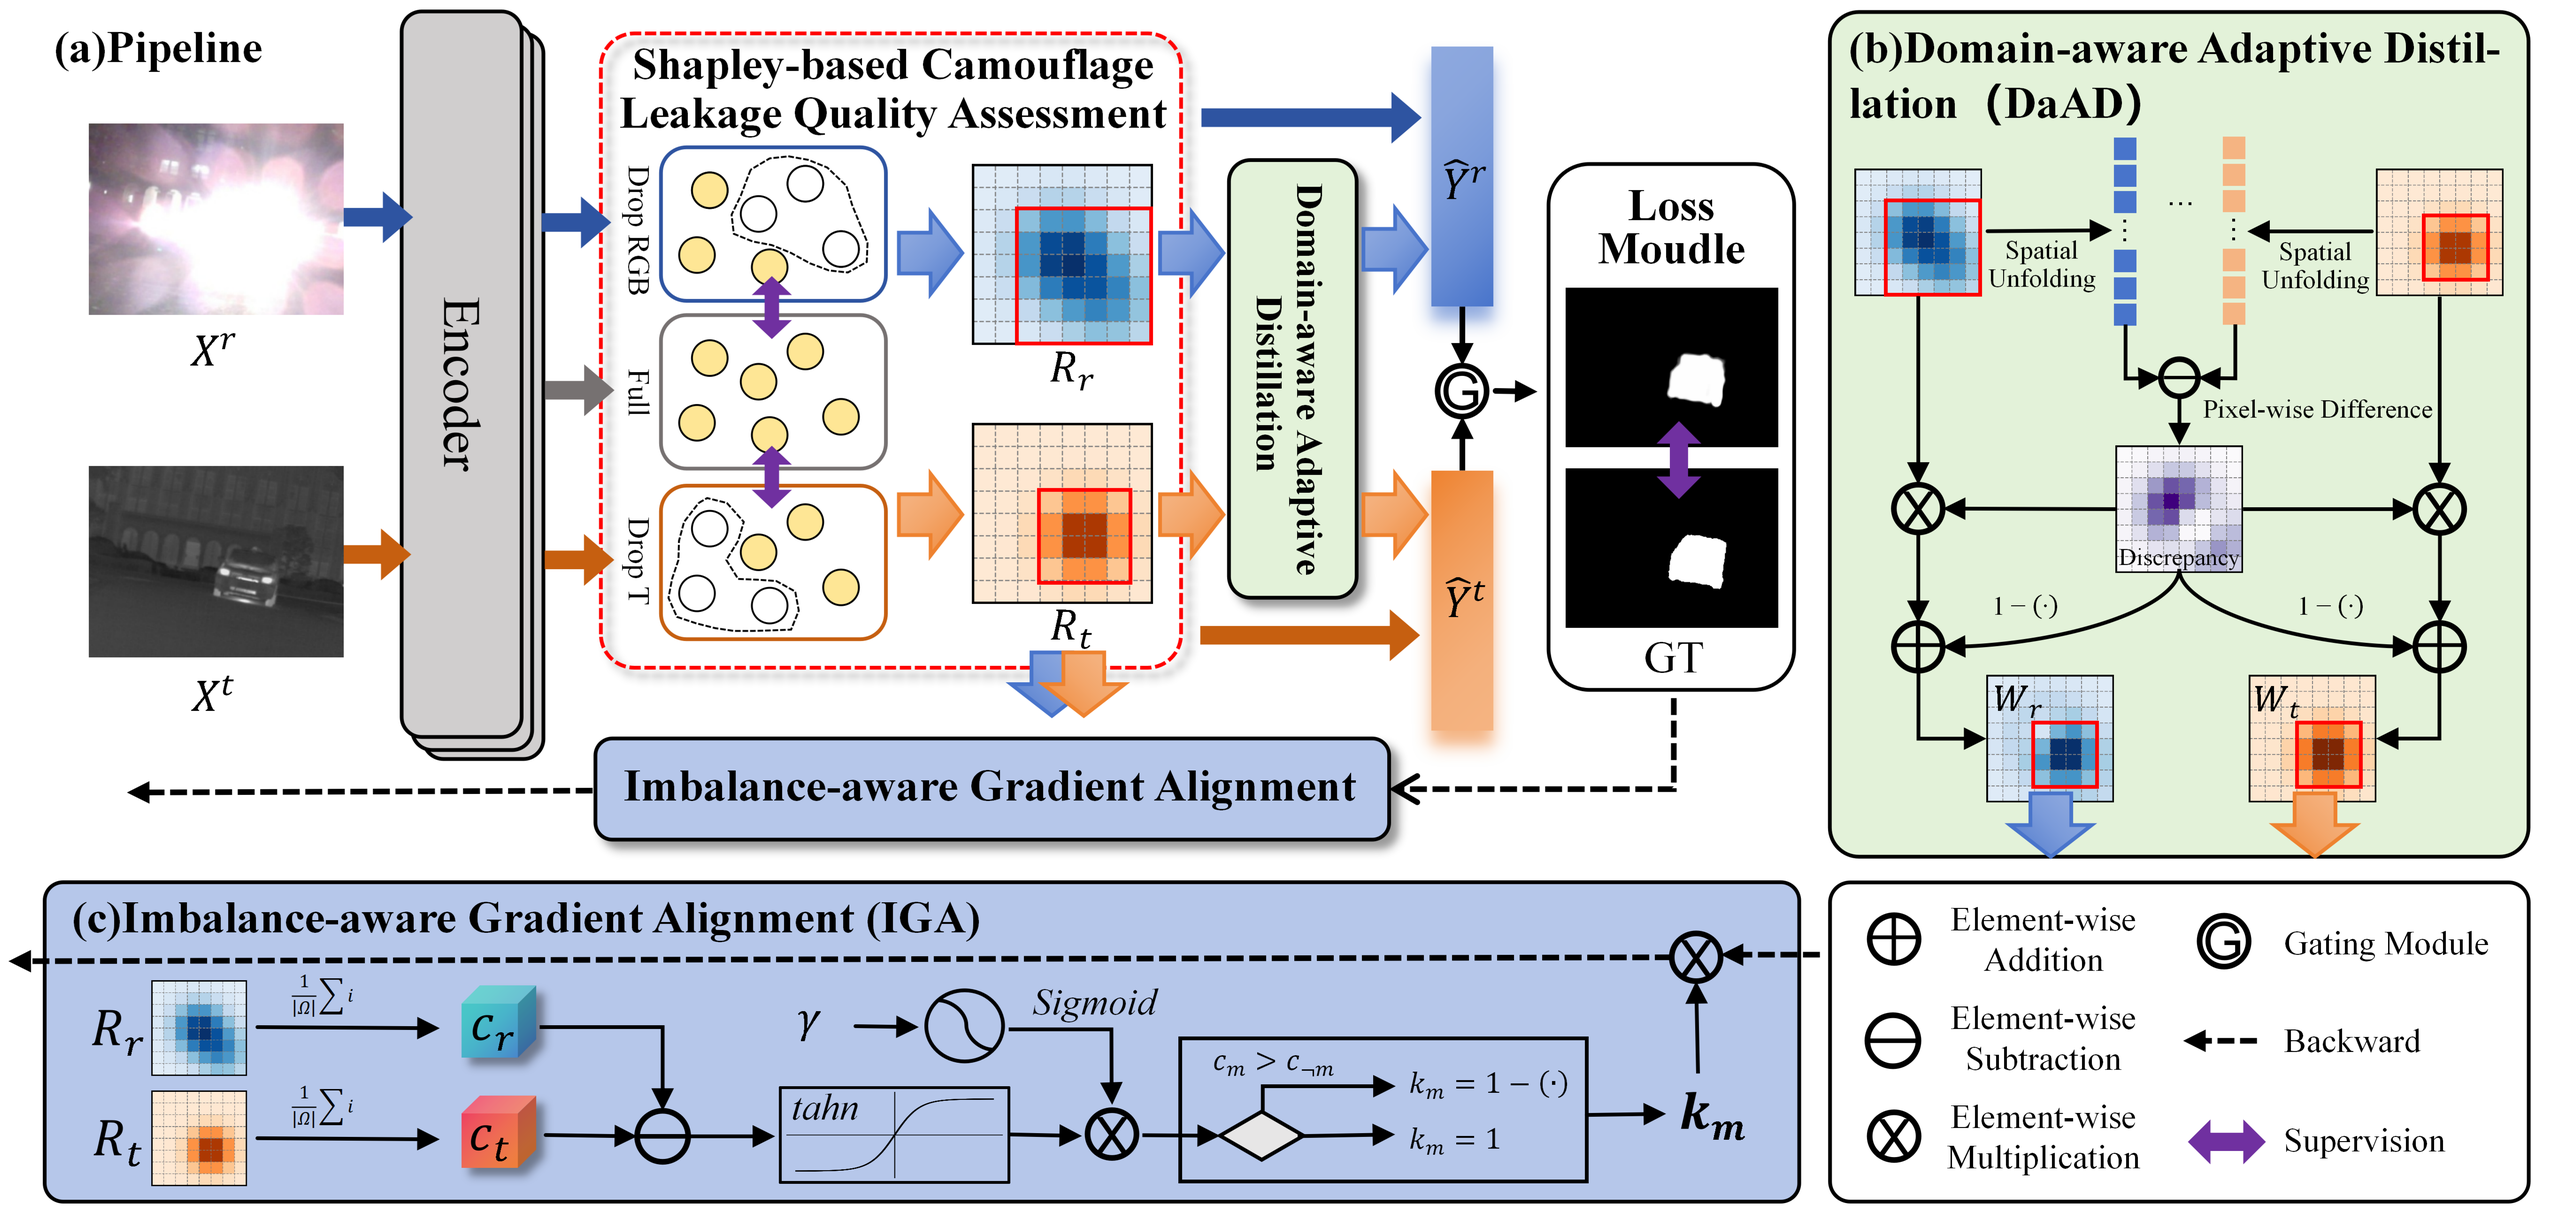
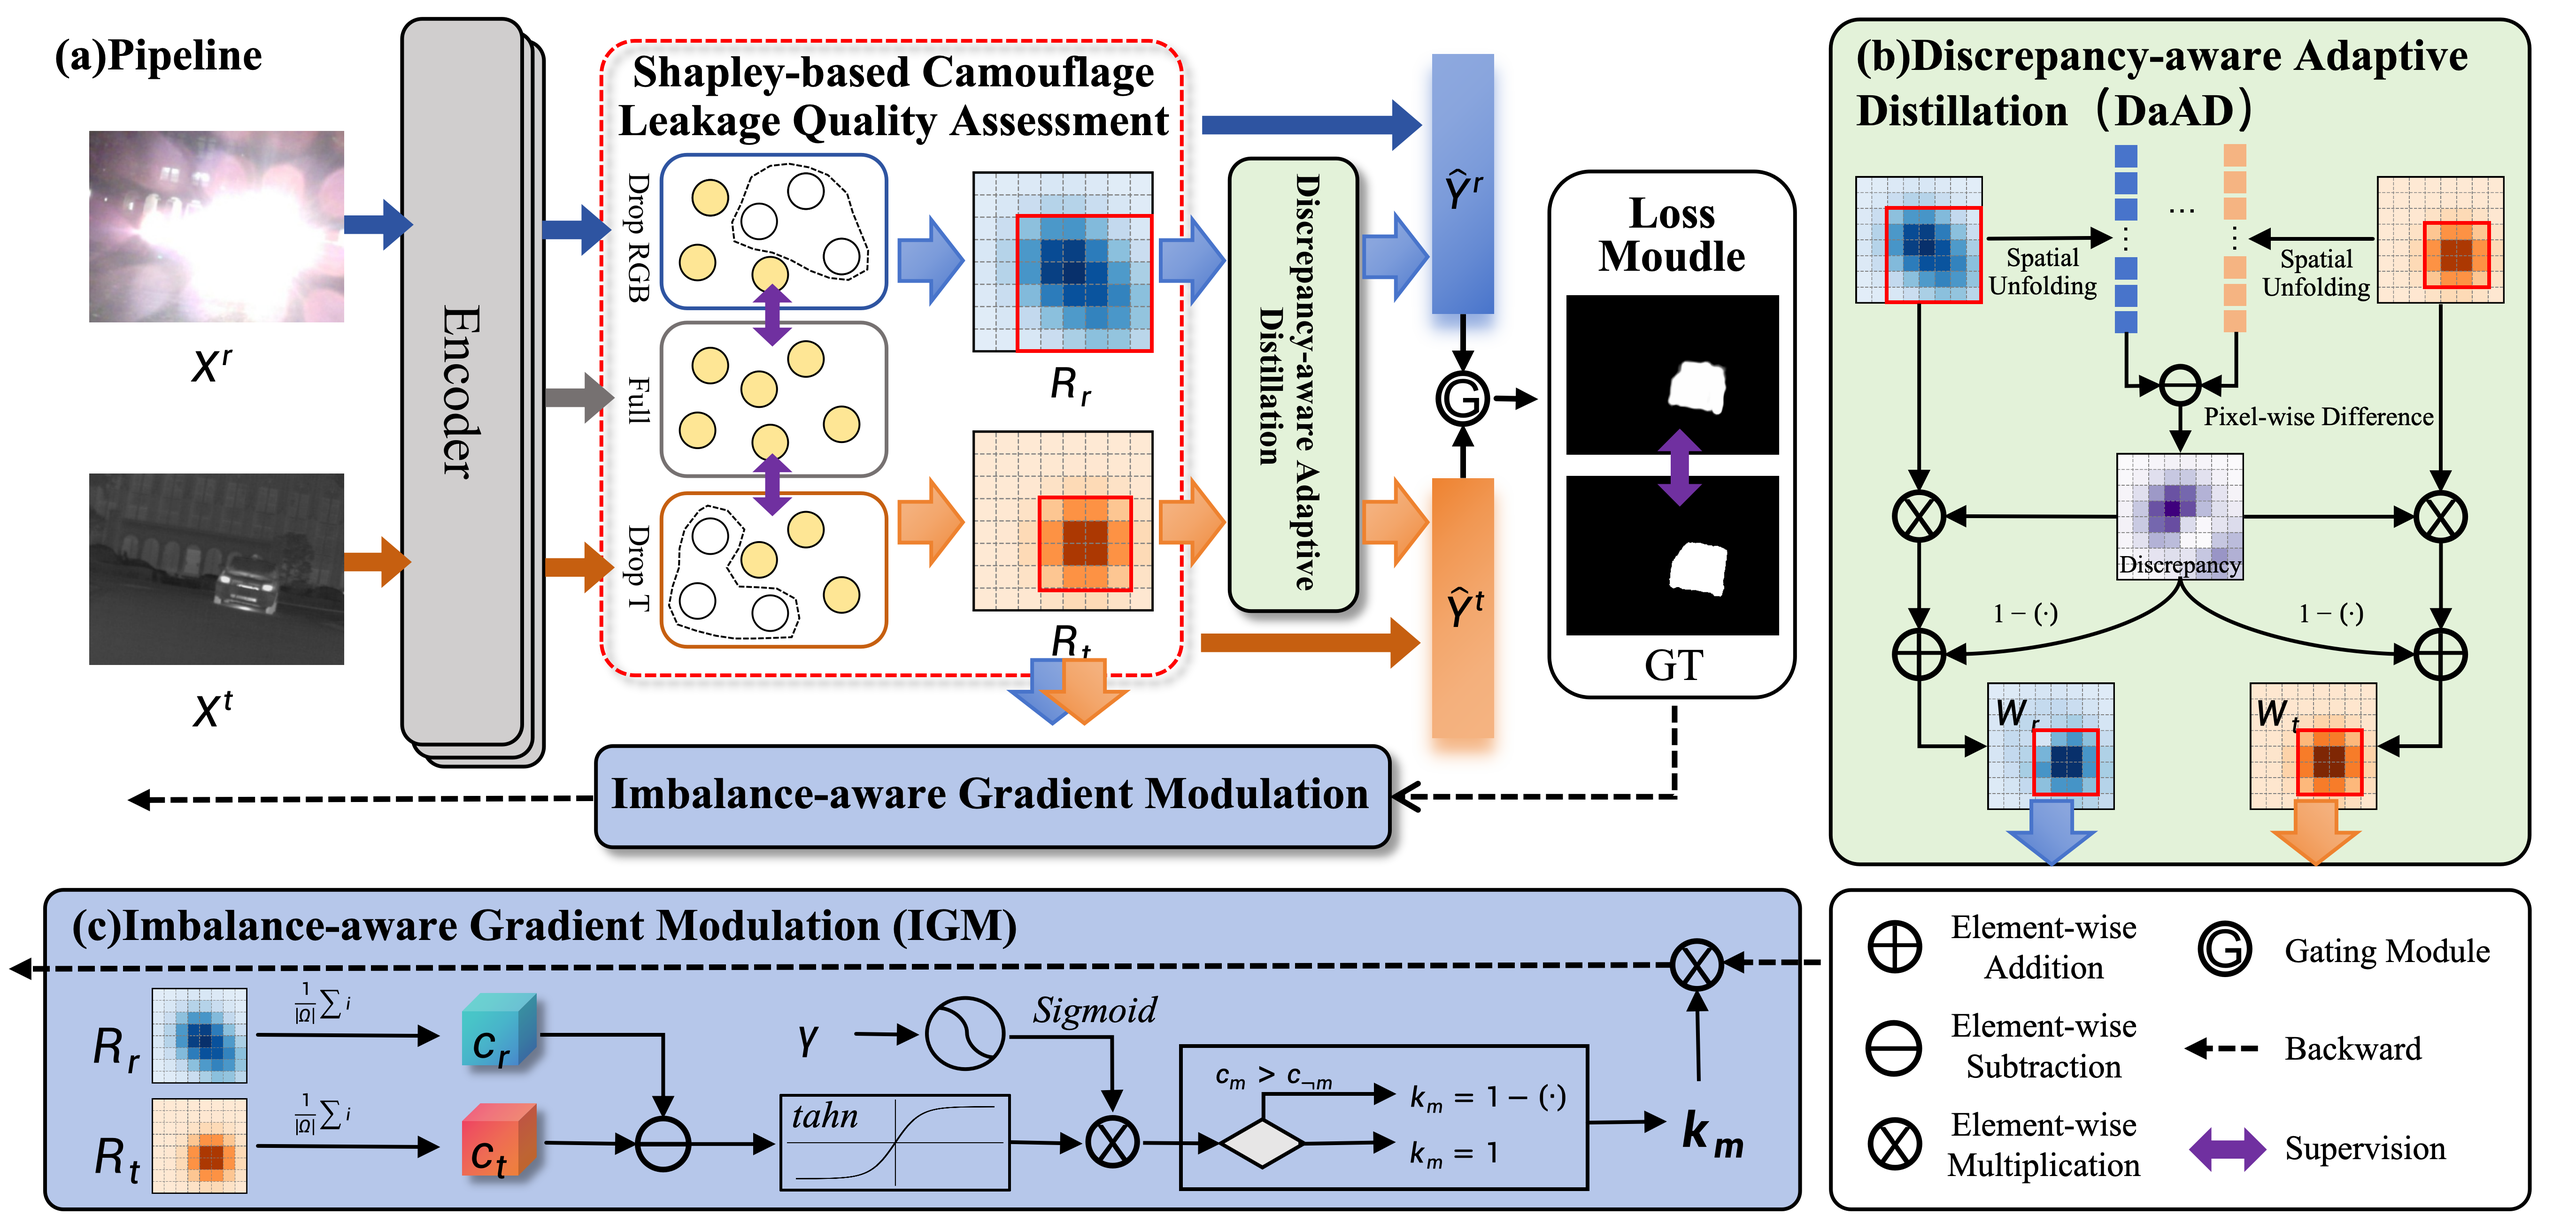
Rename IGA to IGM

diff --git a/train.py b/train.py
@@ -135,25 +135,25 @@ def train(train_loader, model, optimizer, epoch, save_path, opt):
 
             loss.backward()
 
-            suppression_status = 'Balanced' if opt.use_iga else None
-            if opt.use_iga and epoch > opt.iga_warmup_epochs:
+            suppression_status = 'Balanced' if opt.use_igm else None
+            if opt.use_igm and epoch > opt.igm_warmup_epochs:
                 with torch.no_grad():
                     delta_c = (c_rgb_inst - c_t_inst)
                     delta_c_val = float(delta_c)
-                logging.info(f"[IGA] delta_c (c_rgb_inst - c_t_inst) = {delta_c_val:+.6f}")
+                logging.info(f"[IGM] delta_c (c_rgb_inst - c_t_inst) = {delta_c_val:+.6f}")
                 with torch.no_grad():
                     conf_mean = (w_full[:, 0] - w_full[:, 1]).abs().mean().detach()
-                    conf_gate = torch.sigmoid((conf_mean - opt.iga_conf_deadband) * opt.iga_conf_gain)
+                    conf_gate = torch.sigmoid((conf_mean - opt.igm_conf_deadband) * opt.igm_conf_gain)
                     imb = abs(c_rgb_inst - c_t_inst)
-                    imb_gate = math.tanh(imb / (opt.iga_imb_scale + 1e-6))
-                    intensity = opt.iga_alpha * float(conf_gate) * float(imb_gate)
+                    imb_gate = math.tanh(imb / (opt.igm_imb_scale + 1e-6))
+                    intensity = opt.igm_alpha * float(conf_gate) * float(imb_gate)
 
                     coeff_rgb_val = 1.0
                     coeff_t_val = 1.0
-                    if (c_rgb_inst - c_t_inst) > opt.iga_deadband:
-                        coeff_rgb_val = max(opt.iga_coeff_min, 1.0 - intensity)
-                    elif (c_t_inst - c_rgb_inst) > opt.iga_deadband:
-                        coeff_t_val = max(opt.iga_coeff_min, 1.0 - intensity)
+                    if (c_rgb_inst - c_t_inst) > opt.igm_deadband:
+                        coeff_rgb_val = max(opt.igm_coeff_min, 1.0 - intensity)
+                    elif (c_t_inst - c_rgb_inst) > opt.igm_deadband:
+                        coeff_t_val = max(opt.igm_coeff_min, 1.0 - intensity)
 
                     coeff_rgb = coeff_rgb_val
                     coeff_t = coeff_t_val
@@ -194,7 +194,7 @@ def train(train_loader, model, optimizer, epoch, save_path, opt):
                 post_t_mean   = float(torch.stack(rem11_t_post_vals).mean().cpu().item())   if rem11_t_post_vals   else 0.0
 
                 logging.info(
-                    "[IGA] REM11_RGB gradient mean | pre: {:.6e} -> post: {:.6e} (x{:.3f});  "
+                    "[IGM] REM11_RGB gradient mean | pre: {:.6e} -> post: {:.6e} (x{:.3f});  "
                     "REM11_T mean | pre: {:.6e} -> post: {:.6e} (x{:.3f})".format(
                         pre_rgb_mean, post_rgb_mean, (post_rgb_mean / (pre_rgb_mean + 1e-12)),
                         pre_t_mean,   post_t_mean,   (post_t_mean   / (pre_t_mean   + 1e-12))
@@ -290,7 +290,7 @@ def main():
     parser.add_argument('--load', type=str, default=None)
     parser.add_argument('--gpu_id', type=str, default='0,1')
 
-    parser.add_argument('--iga_warmup_epochs', type=int, default=0)
+    parser.add_argument('--igm_warmup_epochs', type=int, default=0)
 
     parser.add_argument('--train_root', type=str, required=True)
     parser.add_argument('--val_root', type=str, required=True)
@@ -305,16 +305,16 @@ def main():
         help='Weight for the DaAD branch loss')
 
 
-    parser.add_argument('--use_iga', action='store_true',
-        help='Enable IGA gradient alignment')
+    parser.add_argument('--use_igm', action='store_true',
+        help='Enable IGM gradient modulation')
 
-    parser.add_argument('--iga_alpha', type=float, default=0.1)
-    parser.add_argument('--iga_deadband', type=float, default=0.02)
-    parser.add_argument('--iga_coeff_min', type=float, default=0.5)
+    parser.add_argument('--igm_alpha', type=float, default=0.1)
+    parser.add_argument('--igm_deadband', type=float, default=0.02)
+    parser.add_argument('--igm_coeff_min', type=float, default=0.5)
 
-    parser.add_argument('--iga_conf_deadband', type=float, default=0.03)
-    parser.add_argument('--iga_conf_gain', type=float, default=8.0)
-    parser.add_argument('--iga_imb_scale', type=float, default=0.15)
+    parser.add_argument('--igm_conf_deadband', type=float, default=0.03)
+    parser.add_argument('--igm_conf_gain', type=float, default=8.0)
+    parser.add_argument('--igm_imb_scale', type=float, default=0.15)
 
     opt = parser.parse_args()
     set_seed(42)
@@ -360,10 +360,10 @@ def main():
         f'Config: epoch={opt.epoch}; lr={opt.lr}; batchsize={opt.batchsize}; trainsize={opt.trainsize}; '
         f'clip={opt.clip}; load={opt.load}; save_path={save_path}; '
         f'use_da_ad={opt.use_da_ad}; use_da_ad_loss={opt.use_da_ad_loss}; lambda_da_ad={opt.lambda_da_ad}; '
-        f'use_iga={opt.use_iga}; iga_alpha={opt.iga_alpha}; '
-        f'iga_warmup_epochs={opt.iga_warmup_epochs}; iga_deadband={opt.iga_deadband}; '
-        f'iga_coeff_min={opt.iga_coeff_min}; iga_conf_deadband={opt.iga_conf_deadband}; '
-        f'iga_conf_gain={opt.iga_conf_gain}; iga_imb_scale={opt.iga_imb_scale}; '
+        f'use_igm={opt.use_igm}; igm_alpha={opt.igm_alpha}; '
+        f'igm_warmup_epochs={opt.igm_warmup_epochs}; igm_deadband={opt.igm_deadband}; '
+        f'igm_coeff_min={opt.igm_coeff_min}; igm_conf_deadband={opt.igm_conf_deadband}; '
+        f'igm_conf_gain={opt.igm_conf_gain}; igm_imb_scale={opt.igm_imb_scale}; '
     )
 
 

diff --git a/README.md b/README.md
@@ -1,12 +1,12 @@
 # Balancing Cross-Modal Perceptual Discrepancy: A Dynamic Optimization Framework for RGB-T Camouflaged Object Detection
 
-This repository contains the code for an RGB-T camouflaged object detection framework. It includes training with the DaAD and IGA components, MAE evaluation, and prediction-map generation.
+This repository contains the code for an RGB-T camouflaged object detection framework. It includes Discrepancy-aware Adaptive Distillation (DaAD) and Imbalance-aware Gradient Modulation (IGM), MAE evaluation, and prediction-map generation.
 
 ## Method and Results
 
 ### Network Architecture
 
-![Network architecture of the proposed framework, including DaAD and IGA](assets/fig3.png)
+![Network architecture of the proposed framework, including DaAD and IGM](assets/fig3.png)
 
 ## Requirements
 
@@ -29,7 +29,7 @@ The training dataset is not included in the test-dataset download. Prepare the t
 
 ## Training
 
-Example command with DaAD and IGA enabled:
+Example command with DaAD and IGM enabled:
 
 ```bash
 python train.py \
@@ -38,7 +38,7 @@ python train.py \
   --save_path ./checkpoints/experiment \
   --use_da_ad \
   --use_da_ad_loss \
-  --use_iga
+  --use_igm
 ```
 
 The script saves checkpoints and a training log under `--save_path`. See `python train.py --help` for the available options.
